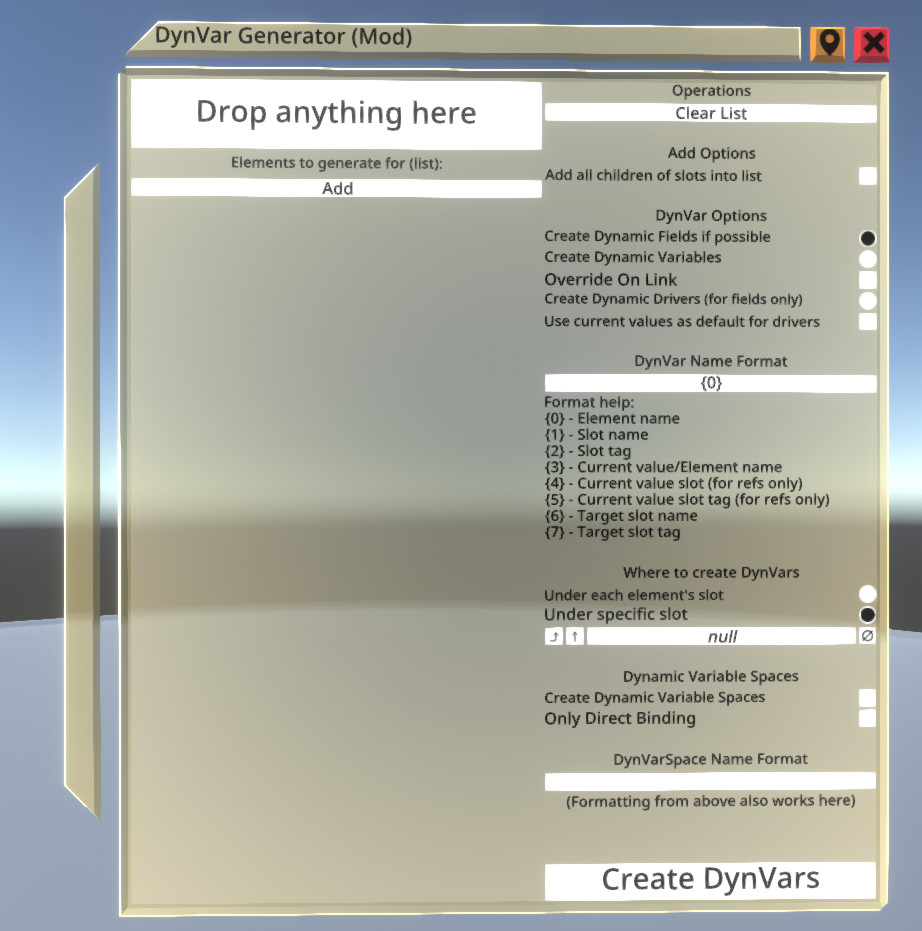
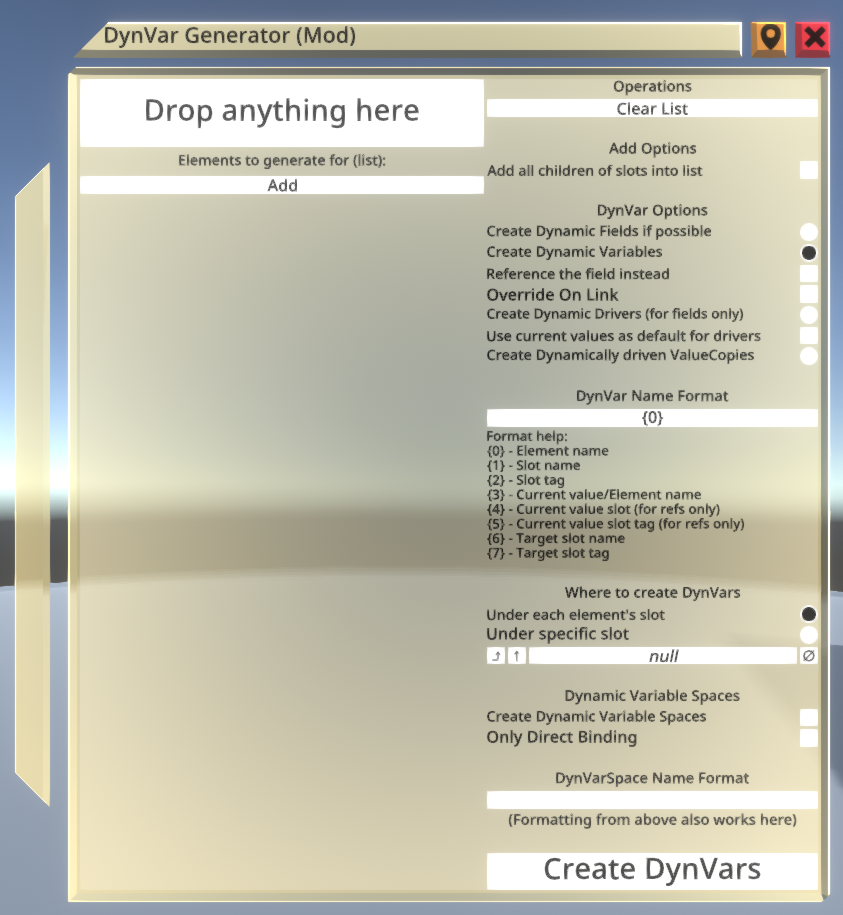
Added dynamically driven valuecopies and more explanation

diff --git a/Wizard.cs b/Wizard.cs
@@ -251,18 +251,31 @@ namespace DynVarGenerator
         }
 
         void CreateDynVar(IWorldElement element, Slot targetSlot) {
-            NeosMod.Msg(element.GetType());
-
             switch (element) {
                 case ISyncRef syncRef:
                     GetType().GetMethod("AttachDynRefVar")
-                        ?.MakeGenericMethod(syncRef.TargetType)
-                        .Invoke(this, new object[] { syncRef.Target, targetSlot });
+                        ?.MakeGenericMethod(
+                            _wizardSettings.ReferenceFieldInstead ? syncRef.GetType() : syncRef.TargetType
+                        ).Invoke(this, new object[]
+                        {
+                            _wizardSettings.ReferenceFieldInstead ? syncRef : syncRef.Target, 
+                            targetSlot
+                        });
                     break;
                 case IField field:
-                    GetType().GetMethod("AttachDynValueVar")
-                        ?.MakeGenericMethod(field.ValueType)
-                        .Invoke(this, new object[] { field, targetSlot });
+                    if (_wizardSettings.ReferenceFieldInstead)
+                    {
+                        GetType().GetMethod("AttachDynRefVar")
+                            ?.MakeGenericMethod(typeof(IField<>).MakeGenericType(field.ValueType))
+                            .Invoke(this, new object[] { field, targetSlot });
+                    }
+                    else
+                    {
+                        GetType().GetMethod("AttachDynValueVar")
+                            ?.MakeGenericMethod(
+                                field.ValueType
+                            ).Invoke(this, new object[] { field, targetSlot });
+                    }
                     break;
                 default:
                     GetType().GetMethod("AttachDynRefVar")
@@ -325,6 +338,47 @@ namespace DynVarGenerator
             dynVar.Target.Target = (IField<T>)element;
         }
         
+        bool CreateDynDrivenValueCopy(IWorldElement element, Slot targetSlot) {
+            switch (element) {
+                case ISyncRef syncRef:
+                    GetType().GetMethod("AttachDynDrivenRefCopy")
+                        ?.MakeGenericMethod(syncRef.TargetType)
+                        .Invoke(this, new object[] { syncRef, targetSlot });
+                    break;
+                case IField field:
+                    GetType().GetMethod("AttachDynDrivenValueCopy")
+                        ?.MakeGenericMethod(field.ValueType)
+                        .Invoke(this, new object[] { field, targetSlot });
+                    break;
+                default:
+                    return false;
+            }
+            
+            return true;
+        } 
+        
+        public void AttachDynDrivenRefCopy<T>(ISyncRef element, Slot targetSlot) 
+            where T : class, IWorldElement
+        {
+            DynamicReferenceVariableDriver<SyncRef<T>> dynVar = targetSlot.AttachComponent<DynamicReferenceVariableDriver<SyncRef<T>>>();
+            dynVar.VariableName.Value = FormatName(_wizardSettings.DynVarNameFormat, element, targetSlot);
+
+            ReferenceCopy<T> refCopy = targetSlot.AttachComponent<ReferenceCopy<T>>();
+            dynVar.Target.Value = refCopy.Source.ReferenceID;
+
+            refCopy.Target.Target = (SyncRef<T>)element;
+        }
+        
+        public void AttachDynDrivenValueCopy<T>(IField element, Slot targetSlot) {
+            DynamicReferenceVariableDriver<IField<T>> dynVar = targetSlot.AttachComponent<DynamicReferenceVariableDriver<IField<T>>>();
+            dynVar.VariableName.Value = FormatName(_wizardSettings.DynVarNameFormat, element, targetSlot);
+
+            ValueCopy<T> valueCopy = targetSlot.AttachComponent<ValueCopy<T>>();
+            dynVar.Target.Value = valueCopy.Source.ReferenceID;
+
+            valueCopy.Target.Target = (IField<T>)element;
+        }
+        
         void CreateDynVars(IButton button, ButtonEventData eventData) {
             Slot targetSlot = DynVarSlot.Reference.Target;
 
@@ -344,26 +398,44 @@ namespace DynVarGenerator
                         }
                     }
 
+                    if (whereToCreate == null)
+                    {
+                        continue;
+                    }
+
                     if (_wizardSettings.DynamicVariableSpaces) {
                         CreateDynVarSpace(element, whereToCreate);
                     }
 
-                    try {
-                        if (mode < 2) {
-                            if (mode == 0 && CreateDynField(element, whereToCreate)) {
+                    try
+                    {
+                        if (mode < 2)
+                        {
+                            if (mode == 0 && CreateDynField(element, whereToCreate))
+                            {
                                 countProcessed++;
                             }
-                            else {
+                            else
+                            {
                                 CreateDynVar(element, whereToCreate);
                                 countProcessed++;
                             }
                         }
-                        else {
-                            if (CreateDynDriver(element, whereToCreate)) {
-                                countProcessed++;
+                        else
+                        {
+                            switch (mode)
+                            {
+                                case 2 when CreateDynDriver(element, whereToCreate):
+                                case 3 when CreateDynDrivenValueCopy(element, whereToCreate):
+                                    countProcessed++;
+                                    break;
                             }
                         }
-                    } catch(ArgumentException) {}
+                    }
+                    catch (ArgumentException e)
+                    {
+                        NeosMod.Msg(e);
+                    }
                 }
 
                 button.LabelText = $"Done! Processed: {countProcessed}";

diff --git a/WizardSettings.cs b/WizardSettings.cs
@@ -18,6 +18,7 @@ namespace DynVarGenerator
         public string DynVarNameFormat = "{0}";
         public bool DynamicVariableSpaces = false;
         public bool OnlyDirectBinding = false;
+        public bool ReferenceFieldInstead = false;
         public string DynVarSpaceNameFormat = "";
 
         public void BuildSettings(UIBuilder ui) {
@@ -27,9 +28,11 @@ namespace DynVarGenerator
             ui.Text("DynVar Options").AutoSizeMax.Value = 20;
             ui.ValueRadio("Create Dynamic Fields if possible", _wizard.DynVarMode.Value, 0);
             ui.ValueRadio("Create Dynamic Variables", _wizard.DynVarMode.Value, 1);
-            ui.Checkbox("Override On Link", OverrideOnLink).State.OnValueChange += field => OverrideOnLink = field.Value; 
+            ui.Checkbox("Reference the field instead", OverrideOnLink).State.OnValueChange += field => ReferenceFieldInstead = field.Value;
+            ui.Checkbox("Override On Link", OverrideOnLink).State.OnValueChange += field => OverrideOnLink = field.Value;
             ui.ValueRadio("Create Dynamic Drivers (for fields only)", _wizard.DynVarMode.Value, 2);
             ui.Checkbox("Use current values as default for drivers", SetCurrentValueAsDefault).State.OnValueChange += field => SetCurrentValueAsDefault = field.Value;
+            ui.ValueRadio("Create Dynamically driven ValueCopies", _wizard.DynVarMode.Value, 3);
             ui.Empty("Gap");
             ui.Text("DynVar Name Format").AutoSizeMax.Value = 20;
             ui.TextField(DynVarNameFormat).Text.Content.OnValueChange += field => DynVarNameFormat = field.Value;

diff --git a/DynVarGenerator.cs b/DynVarGenerator.cs
@@ -7,7 +7,7 @@ namespace DynVarGenerator
     {
         public override string Name => "DynVarGenerator";
         public override string Author => "TheJebForge";
-        public override string Version => "1.1.0";
+        public override string Version => "1.2.0";
 
         public override void OnEngineInit()
         {

diff --git a/README.md b/README.md
@@ -8,7 +8,10 @@ A [NeosModLoader](https://github.com/zkxs/NeosModLoader) mod for [Neos VR](https
 3. Start the game. If you want to verify that the mod is working you can check your Neos logs.
 
 ## How to use this mod
-Wizard can be found in DevTool's Create New -> Editor -> DynVar Generator
+Wizard can be found in DevTool's Create New -> Editor -> DynVar Generator. 
+
+**You should also read the information below the image, because that's where the mod gets explained**
+
 ![image](screenshot/panel.png)
 
 Panel on left is list of elements that dynamic vars will be generated for. The drop target accepts any world element. Dropping lists into the target will add all elements of the lists.
@@ -16,6 +19,33 @@ Panel on left is list of elements that dynamic vars will be generated for. The d
 You might need [this](https://github.com/EIA485/NeosMoreReferenceProxies) mod to actually be able to grab lists
 
 If "Add all children" is checked, dropping a slot into the drop target will add all children of the slot as well
+
+## Explanation of the options
+- ### Clear List
+  Clears all the references in the list
+- ### Add all children of slots into list
+  When on, if slot reference is dropped into the drop target (The thing that says "Drop anything here") - all children of the slot will be also added to the list
+- ### Create Dynamic Fields if possible
+  Dynamic Fields will be created for the elements in the list if that's possible. Dynamic Fields need a field reference to be their source, so this will only work if the element is a field. If it's not a field, Dynamic Variable will be created instead (see right below)
+- ### Create Dynamic Variables
+  Dynamic Variables will be created for the elements in the list. If element is a field, value of the field will be used for value of the DynVar. If element is anything else, reference of the element will be used as value of the DynVar
+- ### Reference the field instead
+  When enabled, overrides behavior of Create Dynamic Variables in a way that, if element is a field, type of the DynVar will be type of the field and value of the variable will be reference to the field.
+- ### Override On Link
+  When enabled, leaves override on link parameter as checked on for Dynamic Fields and Dynamic Variables
+- ### Create Dynamic Drivers
+  Will only work if the element is a field, otherwise the element gets ignored. Creates Dynamic Driver fit for the field, making it drive the field
+- ### Use current values as default for drivers
+  Adds to Dynamic Driver behavior where default value of the driver is set to current value of the field
+- ### Create Dynamically driven ValueCopies
+  A peculiar mode where DynamicReferenceDriver and RefCopy/ValueCopy is created. So instead of Dynamic Driver driving the field directly, ValueCopy does the driving while Dynamic Reference Driver provides a reference to a field for Source of the Copy 
+  <br><br>
+  Intended to be used in combination with Dynamic Variables that were created with "Reference the field instead" checked on
+
+## What's the difference between Dynamic Drivers and Dynamically driven Value Copies?
+Dynamic variables frankly always sync, if you're driving a dynamic variable with a local value, this will sync to everyone else too. So if you have a blink blendshape that's driven by a EyeLinearDriver, and that in addition is inside of a Dynamic Field, so you can have the blendshape synced between multiple meshes. EyeLinear has its own timer for every user which is local, so blinks happen in a desynced manner because it's local. But when you force the blendshape to sync between users using a dynamic variable, it makes everyone's blink get synced. So you'll see double blinking if there's 2 users in the session, because their EyeLinearDrivers blink in different phase, but because of dynamic variables, this gets synced between the users.
+
+However, if you use dynamic variables to only sync the reference to the blendshape, and then use ValueCopy to copy the value of the blendshapes, the value remains local and only the reference of the blendshape gets synced with dynamic variables. Making you be able to have working blinking blendshape across multiple meshes, without the issue of dynamic variables syncing
 
 ## Explanation of the format
 - ### Element name
